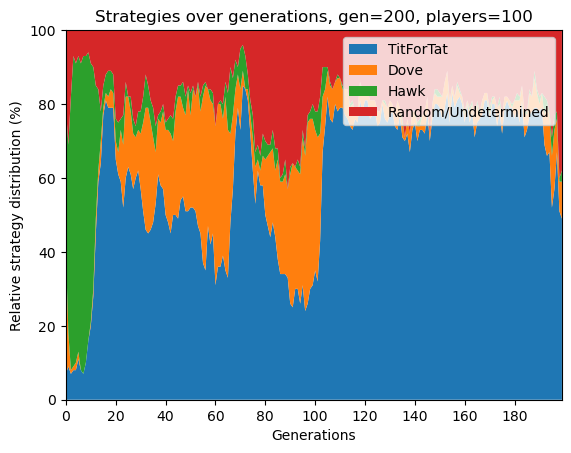
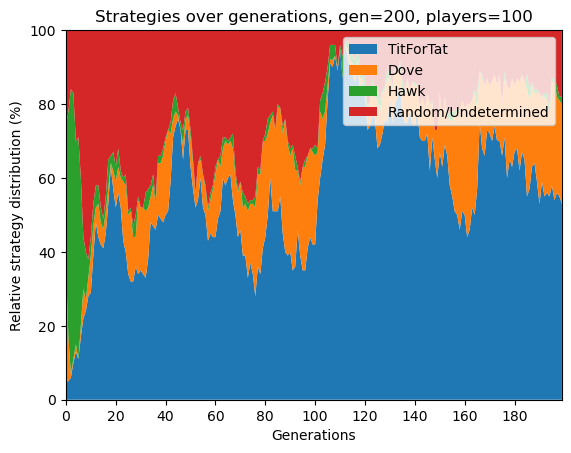
changed stackplot

Changed region(s): [[0.1191, 0.0927, 0.9825, 0.8344]]

diff --git a/main.py b/main.py
@@ -15,12 +15,12 @@ if __name__ == '__main__':
     # python main.py -players 1 -games 2 -generations 3 -matchups 4 -v
 
     # default values if not command line args are given
-    n_games = 10
-    n_matchups = 10
+    n_games = 40
+    n_matchups = 20
     n_generations = 200
     n_players = 100  # at least 2
     assert n_players > n_matchups
-    memory_capacity = 2  # at least 1
+    memory_capacity = 3  # at least 1
     verbose = False
     strat_detector = True
     use_cuda = False
@@ -48,7 +48,7 @@ if __name__ == '__main__':
     env.run(verbose=verbose)
     env.evaluator.plot_fitness(max=True, min=True)
     if strat_detector:
-        env.evaluator.plot_strategies(title=f'Strategies over generations, gen={n_generations}, players={n_players}')
+        env.evaluator.plot_strategies(title=f'Strategies over generations, gen={n_generations}, players={n_players}, memory={memory_capacity}')
     
 
 

diff --git a/src/environment.py b/src/environment.py
@@ -67,7 +67,7 @@ class Environment:
         generating their mutated offspring.
         """
         # Percentage of players that are kept for next generation: Elite
-        elite = 0.5
+        elite = 0.6
         index = int(elite * len(self.players))
         # Sort players in descending order. Elite is until index
         # Is it possible to integrate the player.reset() call in here?
